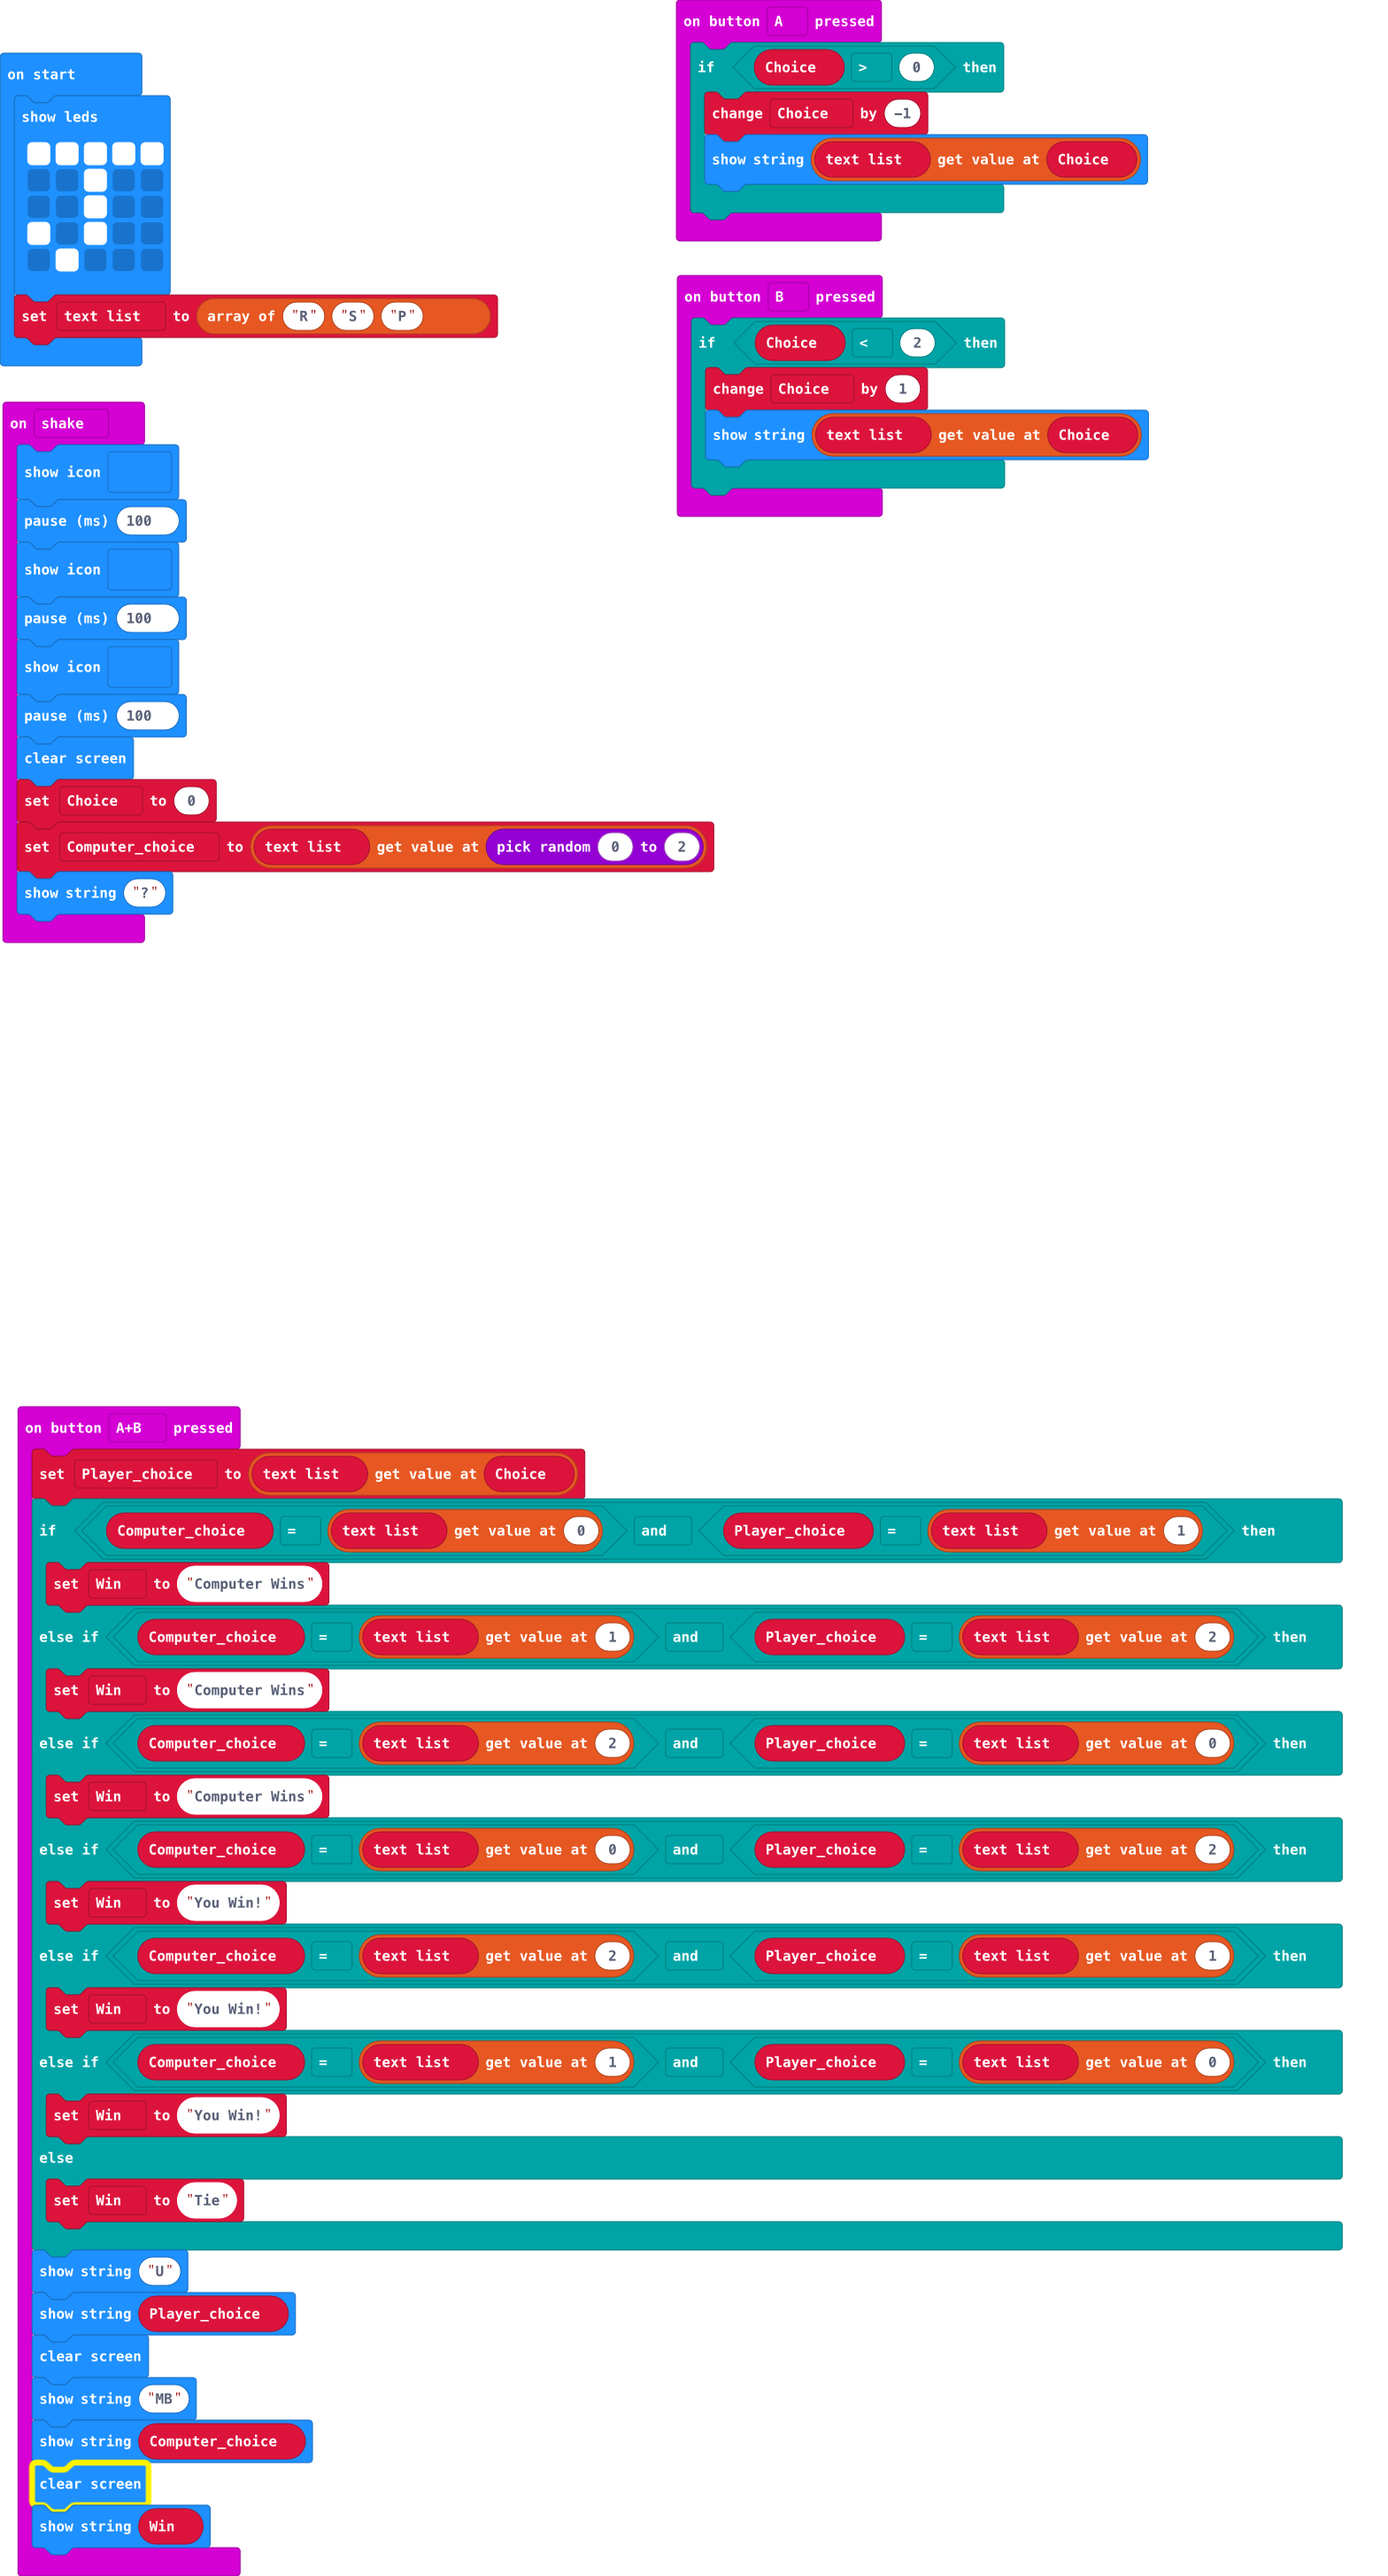
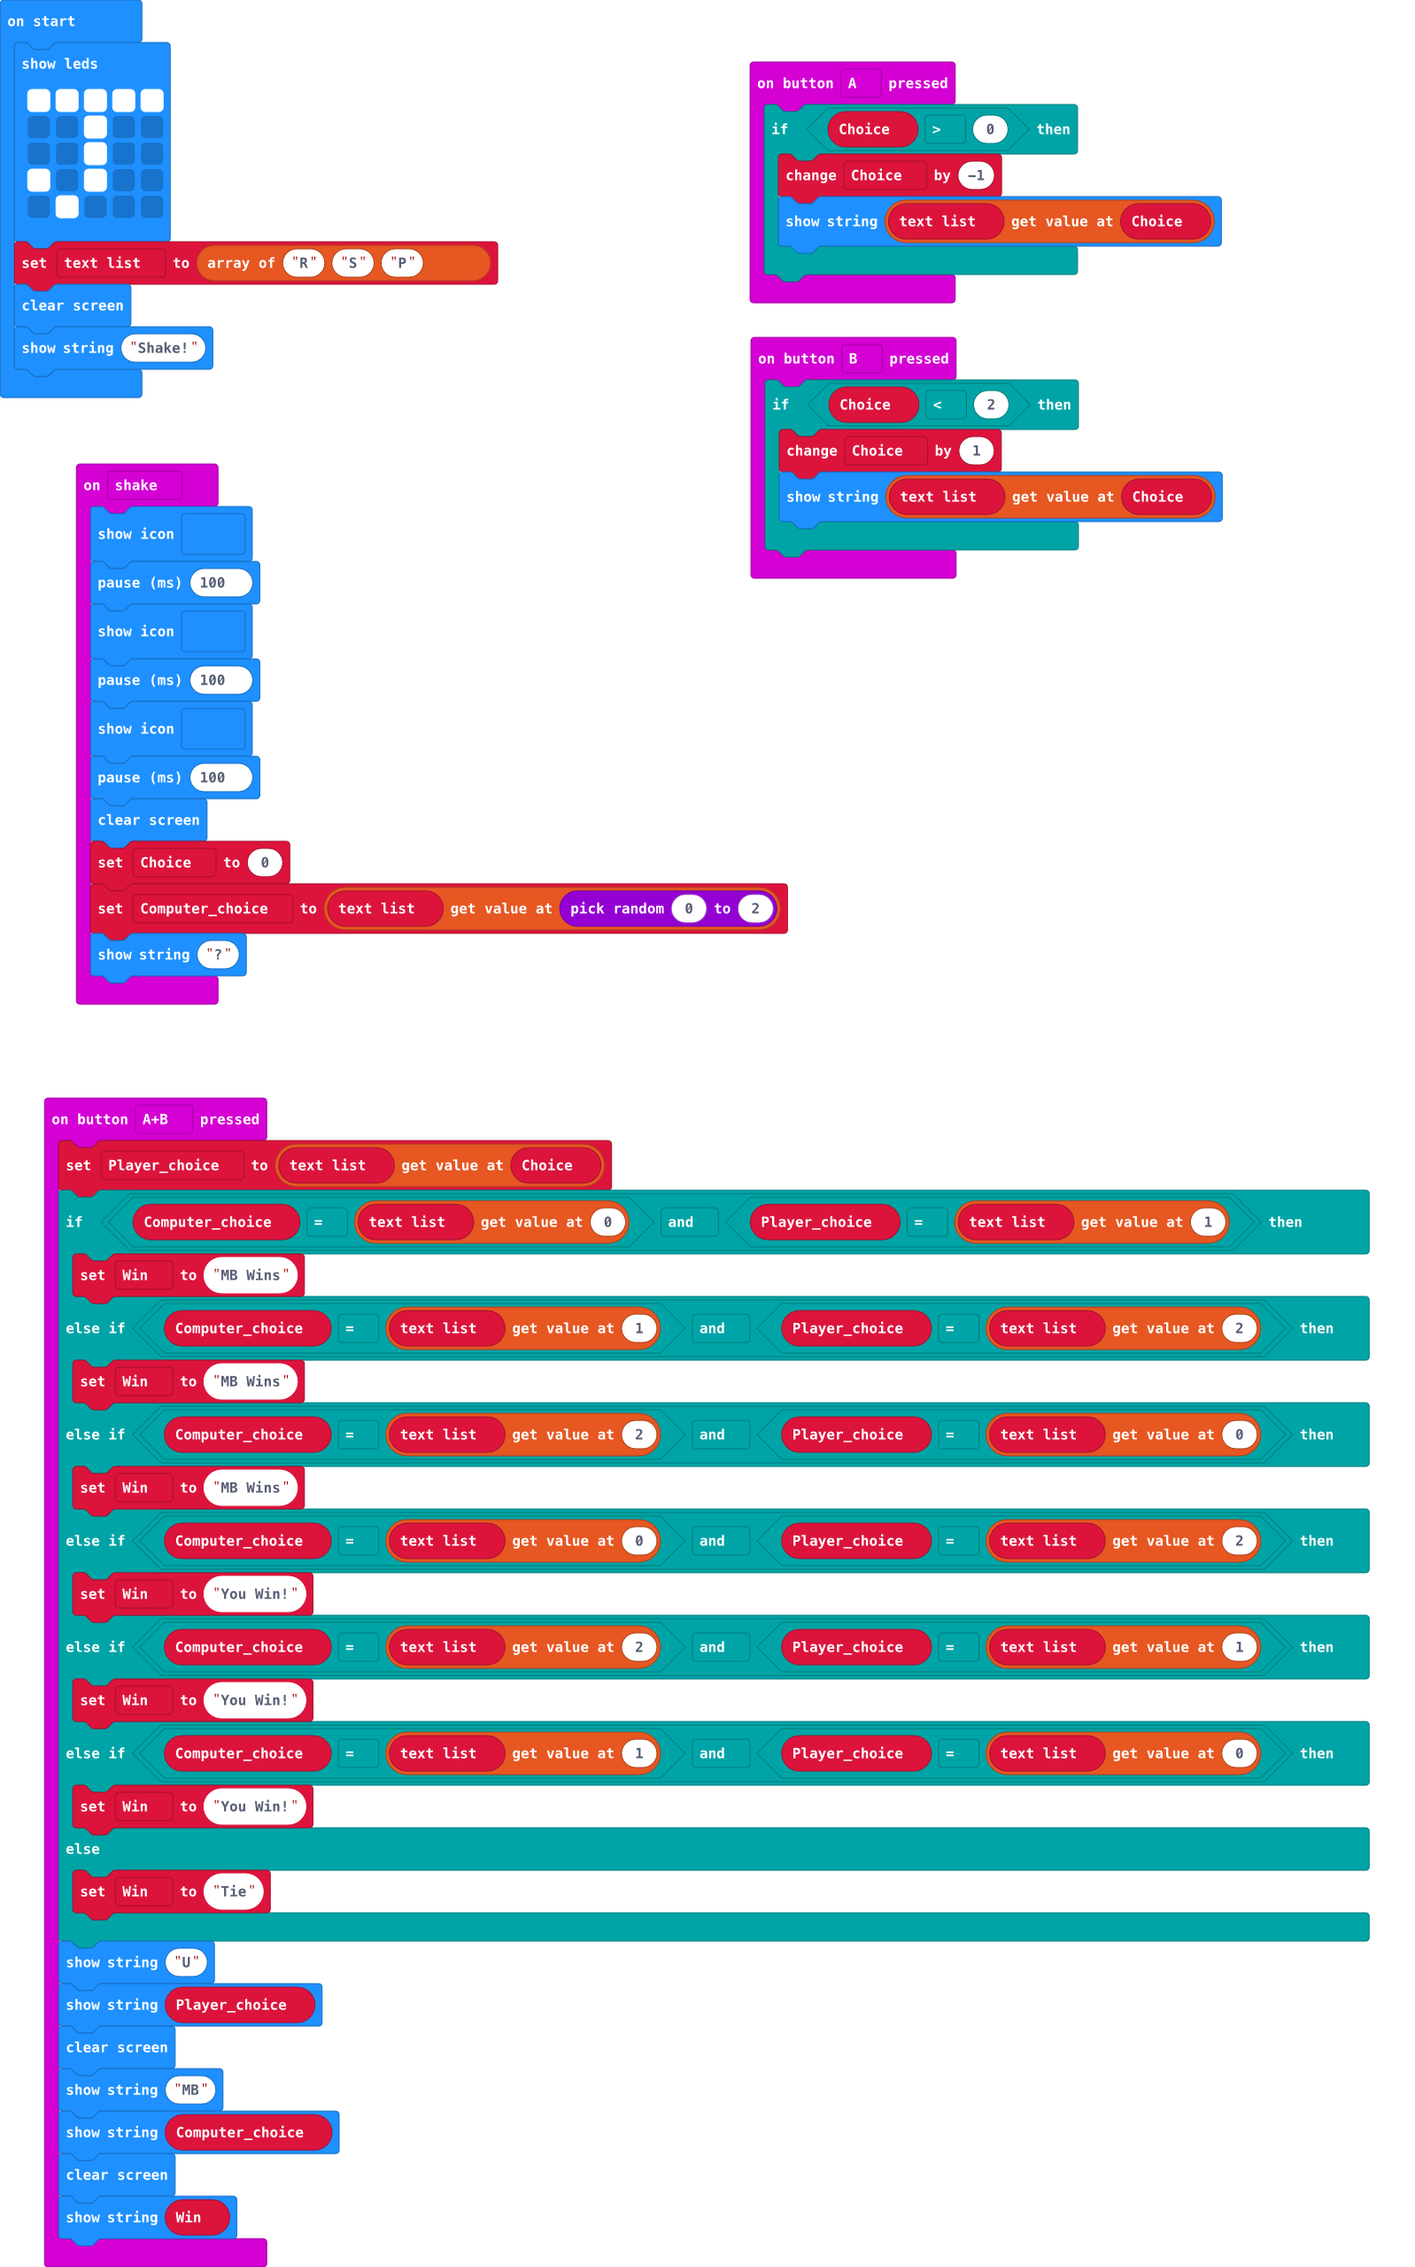
Changed Computer to MB. Added Shake on start.

diff --git a/main.ts b/main.ts
@@ -7,11 +7,11 @@ input.onButtonPressed(Button.A, function () {
 input.onButtonPressed(Button.AB, function () {
     Player_choice = text_list[Choice]
     if (Computer_choice == text_list[0] && Player_choice == text_list[1]) {
-        Win = "Computer Wins"
+        Win = "MB Wins"
     } else if (Computer_choice == text_list[1] && Player_choice == text_list[2]) {
-        Win = "Computer Wins"
+        Win = "MB Wins"
     } else if (Computer_choice == text_list[2] && Player_choice == text_list[0]) {
-        Win = "Computer Wins"
+        Win = "MB Wins"
     } else if (Computer_choice == text_list[0] && Player_choice == text_list[2]) {
         Win = "You Win!"
     } else if (Computer_choice == text_list[2] && Player_choice == text_list[1]) {
@@ -60,3 +60,5 @@ basic.showLeds(`
     . # . . .
     `)
 text_list = ["R", "S", "P"]
+basic.clearScreen()
+basic.showString("Shake!")
